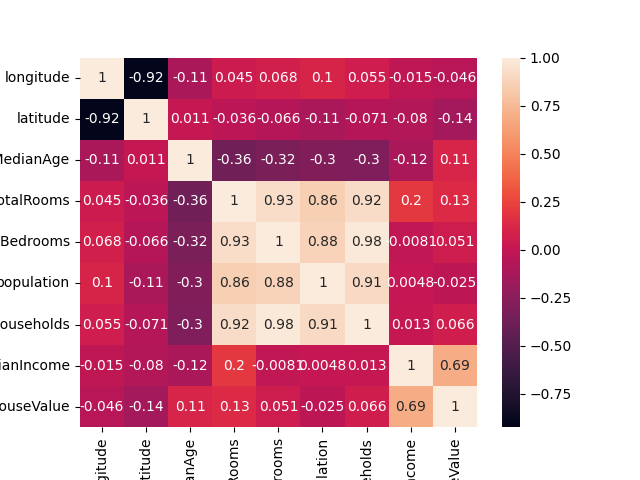
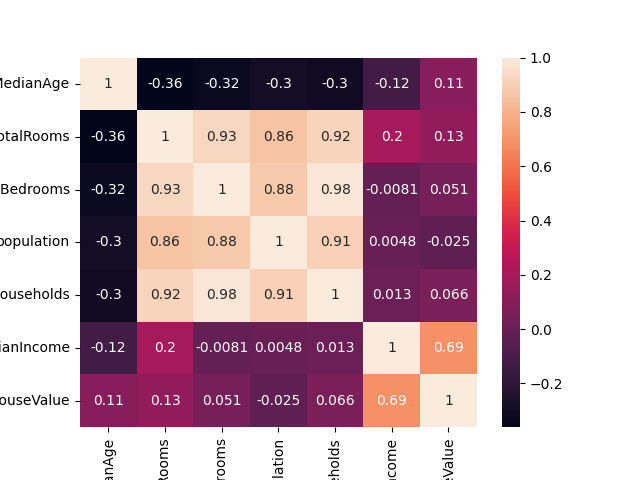
remove longitude & latitude

diff --git a/pages/correlation.py b/pages/correlation.py
@@ -9,8 +9,9 @@ from main import get_data, get_header
 def correlation():
     # Correlation matrix
     data = get_data()
-    header = get_header()
-    corr = data.corr()
+    corr = data.iloc[:,2:].corr()
+
+    print(corr)
 
     # Plotting the heatmap
     fig1, ax1 = plt.subplots()
@@ -18,7 +19,7 @@ def correlation():
     fig1.savefig('result/corr_heatmap.png')
 
     # Plotting the pairplot
-    fig2 = sns.pairplot(data, vars=header)
+    fig2 = sns.pairplot(data.iloc[:,2:])
     fig2.savefig('result/corr_pairplot.png')
 
     # Display the heatmap on the streamlit
